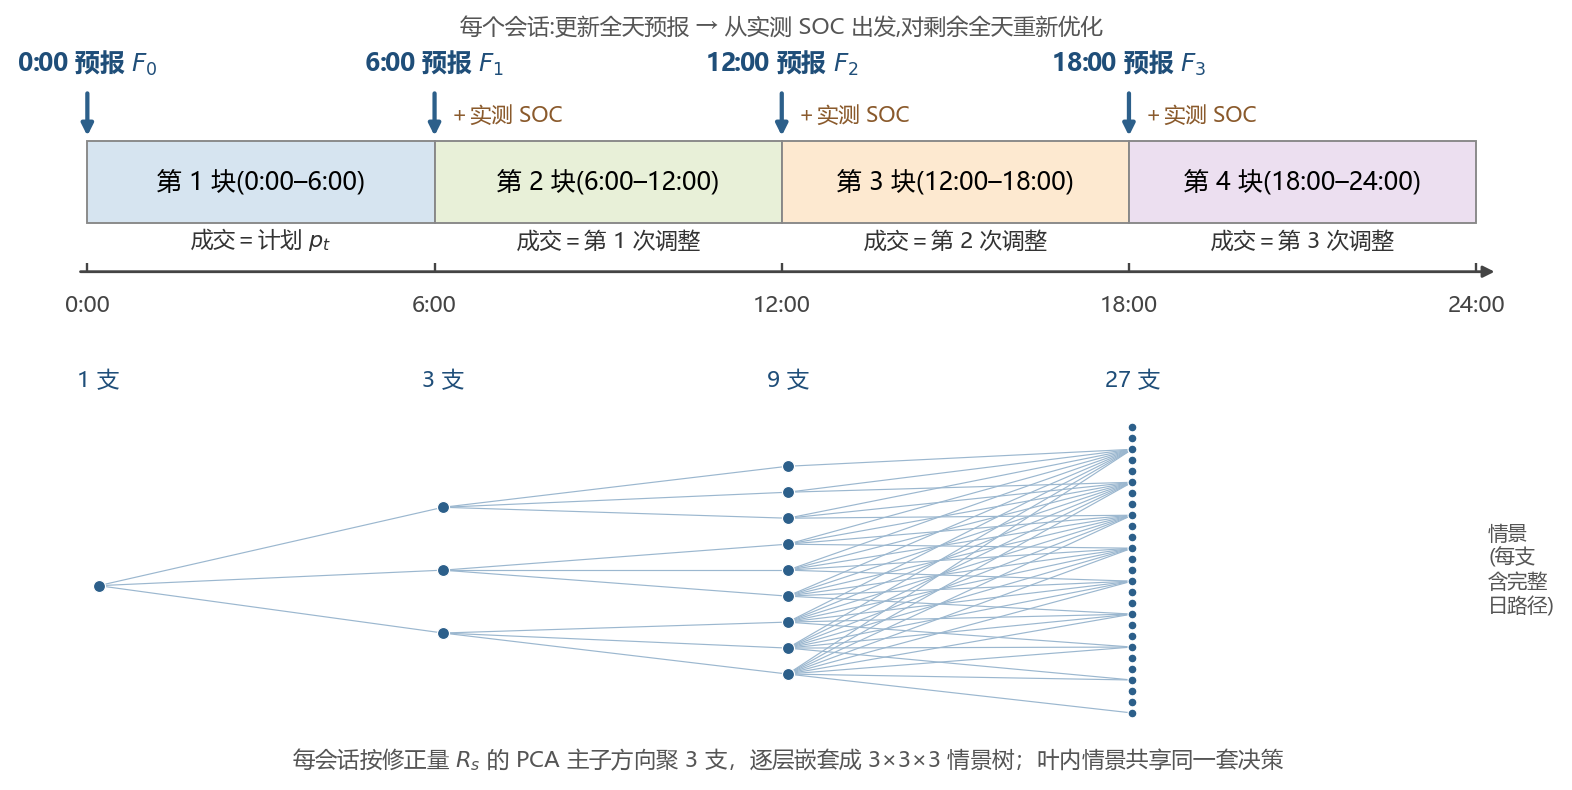
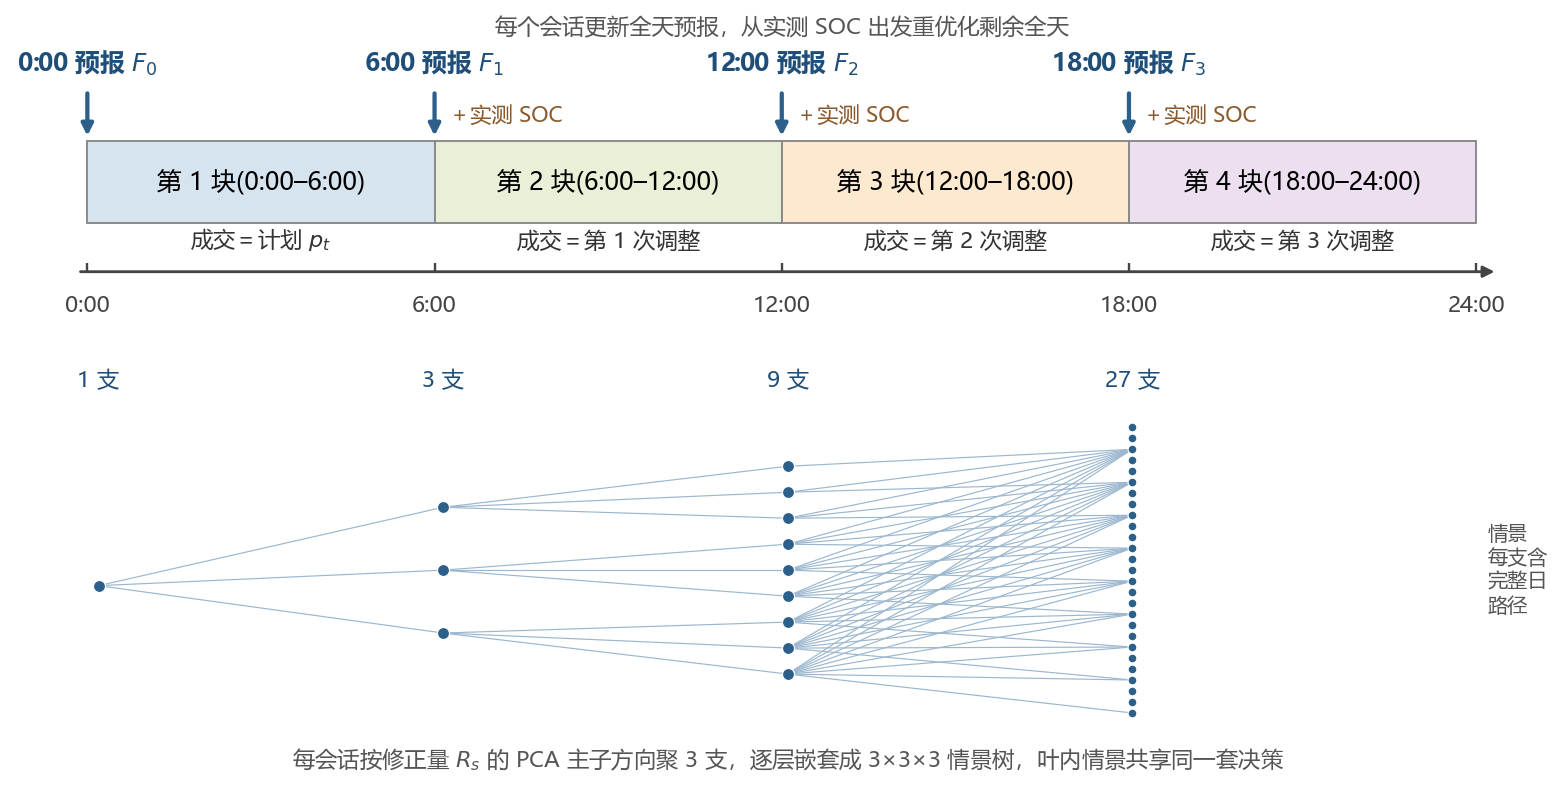
paper p3 v2

diff --git a/C题/p3/m6_report.py b/C题/p3/m6_report.py
@@ -115,22 +115,26 @@ def figs(R):
         t = pd.read_excel(wf)
         t = t.dropna(subset=["306天"])
         fig, ax = plt.subplots(figsize=(7.6, 4.6))
-        vals = t["306天"].values; labs = t["层级"].values
+        vals = t["306天"].values
+        LBL = {"本节+原始预报(无矫正融合)": "四阶段模型＋原始预报",
+               "本节四阶段随机规划(矫正＋融合)": "四阶段随机规划，矫正＋融合"}
+        labs = [LBL.get(x, x) for x in t["层级"].values]
         ax.bar(range(len(vals)), vals, color=["#e08a5b", "#4b8fd0", "#5aa469"])
         for i, v in enumerate(vals):
             ax.text(i, v + 8, f"{v:.1f}", ha="center", fontsize=10)
         for i in range(len(vals) - 1):
             d = vals[i] - vals[i + 1]
+            dd = round(d + 1e-9, 1)
             ax.annotate("", xy=(i + 1, vals[i + 1]), xytext=(i, vals[i]),
                         arrowprops=dict(arrowstyle="->", color="#c0392b", lw=1.6))
-            ax.text(i + 0.5, (vals[i] + vals[i + 1]) / 2 + 20, f"−{d:.1f}", color="#c0392b",
+            ax.text(i + 0.5, (vals[i] + vals[i + 1]) / 2 + 20, f"−{dd:.1f}", color="#c0392b",
                     ha="center", fontsize=10)
         ax.axhline(1638.75, color="#7b241c", ls="--", lw=1.3)
-        ax.text(len(vals) - 1, 1638.75 + 12, "问题二日前计划 1638.75(334 天口径, 参照)",
+        ax.text(len(vals) - 1, 1638.75 + 12, "问题二日前计划 1638.75，334 天口径，仅作参照",
                 color="#7b241c", ha="right", fontsize=8.5)
         ax.set_xticks(range(len(labs))); ax.set_xticklabels(labs, fontsize=8.5)
         ax.set_ylim(0, 1750)
-        ax.set_ylabel("费用(万元)"); ax.set_title("价值瀑布(306 天 3.1–12.31, 实测路径结算)")
+        ax.set_ylabel("费用/万元"); ax.set_title("价值瀑布，306 天实测路径结算")
         fig.tight_layout(); fig.savefig(OUT / "fig1_瀑布.png", dpi=160); plt.close(fig)
 
     # 图2: 会话信息价值(完美预见)
@@ -140,8 +144,8 @@ def figs(R):
     ax.bar(ks, vs, color="#4b8fd0")
     for i, v in enumerate(vs):
         ax.text(i, v + 0.4, f"{v:.1f}", ha="center", fontsize=10)
-    ax.set_ylabel("信息价值上限(万元)")
-    ax.set_title("各会话完美预报的信息价值上限(306 天)")
+    ax.set_ylabel("信息价值上限/万元")
+    ax.set_title("各会话完美预报的信息价值上限，306 天")
     fig.tight_layout(); fig.savefig(OUT / "fig2_会话信息价值.png", dpi=160); plt.close(fig)
 
     # 图3: 会话启用族
@@ -155,8 +159,8 @@ def figs(R):
     ax2.plot([0.5, 1.5, 2.5], marg, "o-", color="#c0392b")
     for i, m in enumerate(marg):
         ax2.text(i + 0.5, m + 1, f"{m:.1f}", color="#c0392b", ha="center", fontsize=9)
-    ax2.set_ylabel("边际价值(万元)", color="#c0392b")
-    ax.set_ylabel("费用(万元)"); ax.set_title("会话启用族与边际信息价值(306 天)")
+    ax2.set_ylabel("边际价值/万元", color="#c0392b")
+    ax.set_ylabel("费用/万元"); ax.set_title("会话启用族与边际信息价值，306 天")
     fig.tight_layout(); fig.savefig(OUT / "fig3_会话启用族.png", dpi=160); plt.close(fig)
 
     # 图4: 风险画像
@@ -165,8 +169,8 @@ def figs(R):
     for q, lab, c in zip(R["qs"], ["P50", "P90", "P95"], ["#2c7fb8", "#e08a5b", "#c0392b"]):
         ax.axvline(q, color=c, ls="--", lw=1.4, label=f"{lab}={q:.1f}")
     ax.axvline(R["cvar95"], color="#7b241c", ls=":", lw=2.0, label=f"CVaR95={R['cvar95']:.1f}")
-    ax.set_xlabel("单日净费用(万元)"); ax.set_ylabel("情景数")
-    ax.set_title("主模型费用分布与风险画像(306 天 × 28 情景)")
+    ax.set_xlabel("单日净费用/万元"); ax.set_ylabel("情景数")
+    ax.set_title("主模型费用分布与风险画像，306 天共 28 情景")
     ax.legend(fontsize=9)
     fig.tight_layout(); fig.savefig(OUT / "fig4_风险画像.png", dpi=160); plt.close(fig)
     print(f"  图已保存 -> {OUT}/fig1..4.png")

diff --git a/C题/p3/p3_paper_figs.py b/C题/p3/p3_paper_figs.py
@@ -67,7 +67,7 @@ def fig_structure():
     for i, x0 in enumerate([6, 12, 18]):
         ax.text(x0 + 3, 0.45, f"成交＝第 {i+1} 次调整", ha="center", fontsize=9.5,
                 color="#333333")
-    ax.text(12, 4.35, "每个会话:更新全天预报 → 从实测 SOC 出发,对剩余全天重新优化",
+    ax.text(12, 4.35, "每个会话更新全天预报，从实测 SOC 出发重优化剩余全天",
             ha="center", fontsize=9.5, color="#555555")
 
     # 时间轴
@@ -100,10 +100,10 @@ def fig_structure():
     for i, x in enumerate(levels):
         axt.text(x, YMAX + 0.9, f"{counts[i]} 支", ha="center", fontsize=9.5,
                  color="#1f4e79")
-    axt.text(24.2, YMAX / 2, "情景\n(每支\n含完整\n日路径)", ha="left", va="center",
+    axt.text(24.2, YMAX / 2, "情景\n每支含\n完整日\n路径", ha="left", va="center",
              fontsize=8.5, color="#555555")
     axt.axis("off")
-    axt.text(12, -1.35, "每会话按修正量 $R_s$ 的 PCA 主子方向聚 3 支，逐层嵌套成 3×3×3 情景树；"
+    axt.text(12, -1.35, "每会话按修正量 $R_s$ 的 PCA 主子方向聚 3 支，逐层嵌套成 3×3×3 情景树，"
                         "叶内情景共享同一套决策",
              ha="center", fontsize=9.5, color="#555555")
 
@@ -126,7 +126,7 @@ def fig_session():
     axL.set_xticklabels(labs, fontsize=10)
     axL.set_ylabel("信息价值上限 / 万元", fontsize=10.5)
     axL.set_ylim(0, 47)
-    axL.set_title("若预报完美：各会话的信息价值上限", fontsize=11)
+    axL.set_title("若预报完美时的各会话信息价值上限", fontsize=11)
     axL.grid(axis="y", ls=":", alpha=0.45)
 
     x = np.arange(4)
@@ -138,7 +138,7 @@ def fig_session():
     axR.set_xticklabels(["0 次", "1 次", "2 次", "3 次"], fontsize=10)
     axR.set_ylabel("费用 / 万元", fontsize=10.5)
     axR.set_ylim(1120, 1230)
-    axR.set_title("实际：启用 $k$ 次调整的费用与边际价值", fontsize=11)
+    axR.set_title("启用 $k$ 次调整的费用与边际价值", fontsize=11)
 
     axR2 = axR.twinx()
     axR2.plot(np.arange(1, 4), FAM_MARG, "o-", color="#c0392b", lw=1.8, ms=6)
@@ -149,7 +149,7 @@ def fig_session():
     axR2.tick_params(axis="y", colors="#c0392b")
     axR.grid(axis="y", ls=":", alpha=0.35)
 
-    fig.suptitle("每一次预报值多少(306 天，3.1–12.31)", fontsize=12, y=1.02)
+    fig.suptitle("各会话预报的价值，306 天窗口", fontsize=12, y=1.02)
     fig.tight_layout()
     fig.savefig(OUT / "fig_p3_session.png", dpi=170, bbox_inches="tight")
     plt.close(fig)
